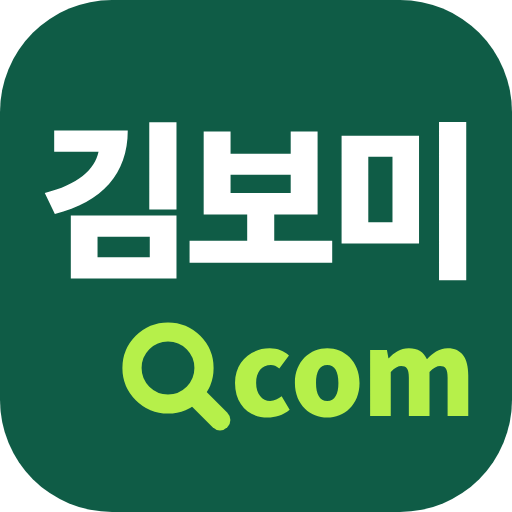
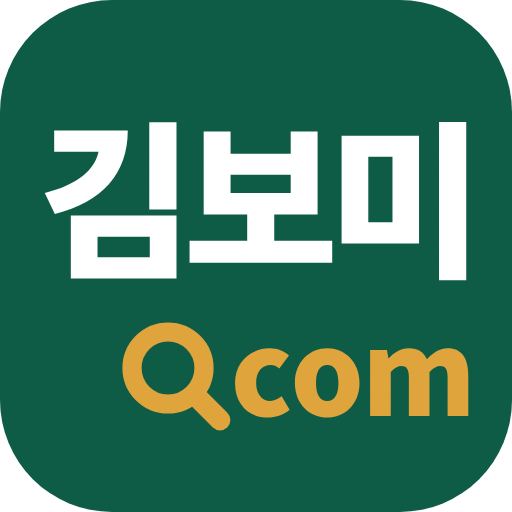
CI 확정: 김보미.com 초록·남색·금색 혼합, 우리동네365 먹색·인주
Claude-Session: https://claude.ai/code/session_01JLZyri34fm9eXoDme9TFVV

Changed region(s): [[0.2188, 0.625, 0.9375, 0.8438]]

diff --git a/budget365.html b/budget365.html
@@ -25,15 +25,15 @@
 <style>
 /* ═══════════ 디자인 토큰 — 03 괘선 장부 (A 신문 1면 × D 쪽빛 전통) ═══════════ */
 :root{
-  --navy:#0B3F31;--navy-2:#0F5C46;--navy-3:#166B52;--royal:#0F5C46;--sky:#E9F2EE;--sky-2:#D3E6DD;--lime:#B6F04A;
-  --gold:#B6F04A;--gold-ink:#3D6B00;--gold-soft:#EEF8D9;--teal:#2F6F5E;--teal-soft:#E2EFEA;--teal-ink:#24594B;
+  --navy:#1C1B18;--navy-2:#2A2925;--navy-3:#3A3934;--royal:#2A2925;--sky:#F1EEE6;--sky-2:#E4DFD2;--lime:#F2A48F;
+  --gold:#C8412B;--gold-ink:#93321F;--gold-soft:#FBE7E1;--teal:#2F6F5E;--teal-soft:#E2EFEA;--teal-ink:#24594B;
   --red:#B8402A;--red-soft:#FBE7E1;--red-ink:#93321F;--violet:#6B5C8A;
-  --bg:#F1F7F3;--bg-2:#E6F0EA;--card:#FFFFFF;--ink:#15202E;--ink-2:#39424F;--ink-3:#6B6455;
-  --line:#DDE3D8;--line-2:#C3CDBF;--rule:#0B3F31;
-  --z-lg:#7FB2D9;--z-gov:#F4B26B;--z-pol:#C9A9F0;--z-lg-ink:#1E4A75;--z-gov-ink:#8A4E0A;--z-pol-ink:#5A3E8A;--z-lg-soft:#E4EEF7;--z-gov-soft:#FBEEDD;--z-pol-soft:#EFE8F9;
-  --c1:#0B3F31;--c2:#2F6F5E;--c3:#C79319;--c4:#6B5C8A;--c5:#B8402A;--c6:#4A6B8A;--c7:#9A9384;--c8:#3F8FA6;
+  --bg:#FBF7EE;--bg-2:#F3EDDF;--card:#FFFFFF;--ink:#15202E;--ink-2:#39424F;--ink-3:#6B6455;
+  --line:#E6DFCF;--line-2:#D2C9B5;--rule:#1C1B18;
+  --z-lg:#7FB2D9;--z-gov:#7FD0BF;--z-pol:#C9A9F0;--z-lg-ink:#1E4A75;--z-gov-ink:#1F6A5A;--z-pol-ink:#5A3E8A;--z-lg-soft:#E4EEF7;--z-gov-soft:#E3F4EF;--z-pol-soft:#EFE8F9;
+  --c1:#1C1B18;--c2:#2F6F5E;--c3:#C79319;--c4:#6B5C8A;--c5:#B8402A;--c6:#4A6B8A;--c7:#9A9384;--c8:#3F8FA6;
   --mono:'IBM Plex Mono','Noto Sans KR','Apple SD Gothic Neo','Malgun Gothic',ui-monospace,monospace;--body:'Noto Sans KR','Apple SD Gothic Neo','Malgun Gothic',sans-serif;--disp:'Noto Serif KR','Nanum Myeongjo',serif;
-  --side:236px;--r:0;--r-s:0;--sh:none;--sh-2:0 2px 0 rgba(11,63,49,.05);
+  --side:236px;--r:0;--r-s:0;--sh:none;--sh-2:0 2px 0 rgba(28,27,24,.05);
   color-scheme:light}
 *{box-sizing:border-box}
 html{scroll-behavior:smooth}
@@ -44,7 +44,7 @@ h1,h2,h3{font-family:var(--disp);letter-spacing:-.03em}
 .wrap{max-width:1180px;margin:0 auto;padding-inline:clamp(16px,2.6vw,34px)}
 
 /* ═══════════ 좌측 쪽빛 사이드바 ═══════════ */
-.top{position:fixed;left:0;top:0;bottom:0;width:var(--side);z-index:30;background:var(--navy);color:#F5F0E4;border-right:3px solid #072A21;overflow-y:auto}
+.top{position:fixed;left:0;top:0;bottom:0;width:var(--side);z-index:30;background:var(--navy);color:#F5F0E4;border-right:3px solid #0E0E0C;overflow-y:auto}
 .top .wrap{display:flex;flex-direction:column;align-items:stretch;gap:16px;height:auto;max-width:none;padding:22px 18px 24px}
 .brand{display:flex;align-items:center;gap:9px;text-decoration:none;color:#F5F0E4;font-family:var(--disp);font-weight:900;font-size:20px;letter-spacing:-.02em;white-space:nowrap}
 .brand:hover{color:#F5F0E4}
@@ -53,7 +53,7 @@ h1,h2,h3{font-family:var(--disp);letter-spacing:-.03em}
 .brand .three{color:var(--lime)}
 .brand small{font-family:var(--mono);font-size:9.5px;color:rgba(245,240,228,.55);letter-spacing:.14em;font-weight:500;padding:2px 5px;border:1px solid rgba(245,240,228,.25)}
 .gohome{display:flex;align-items:center;gap:7px;text-decoration:none;color:rgba(245,240,228,.82);font-size:12.5px;font-weight:500;padding:8px 11px;border:1px solid rgba(245,240,228,.28);margin-bottom:-4px}
-.gohome:hover{background:var(--gold);color:var(--navy);border-color:var(--gold)}
+.gohome:hover{background:var(--gold);color:#fff;border-color:var(--gold)}
 .gohome span{font-family:var(--mono)}
 .search{position:relative;width:100%;margin:0}
 .search input{width:100%;padding:8px 10px 8px 32px;border:1px solid rgba(245,240,228,.28);background:rgba(245,240,228,.07);color:#F5F0E4;font-size:13px;font-family:inherit}
@@ -67,11 +67,11 @@ h1,h2,h3{font-family:var(--disp);letter-spacing:-.03em}
 .nav{display:flex;flex-direction:column;gap:0;margin:0;border-top:1px solid rgba(245,240,228,.16)}
 .nav a{text-decoration:none;color:rgba(245,240,228,.76);font-size:13.5px;font-weight:500;padding:9px 11px;border-bottom:1px solid rgba(245,240,228,.12)}
 .nav a:hover{background:rgba(245,240,228,.08);color:#F5F0E4}
-.nav a.on{background:var(--gold);color:var(--navy);font-weight:700;border-bottom-color:var(--gold)}
+.nav a.on{background:var(--gold);color:#fff;font-weight:700;border-bottom-color:var(--gold)}
 .stamp{font-family:var(--mono);font-size:10px;color:rgba(245,240,228,.62);line-height:1.8;margin-top:auto;padding-top:14px;border-top:1px solid rgba(245,240,228,.16);white-space:normal}
 @media (max-width:900px){
   body{padding-left:0}
-  .top{position:sticky;left:auto;top:0;bottom:auto;width:auto;height:auto;border-right:0;border-bottom:3px solid #072A21;overflow:visible}
+  .top{position:sticky;left:auto;top:0;bottom:auto;width:auto;height:auto;border-right:0;border-bottom:3px solid #0E0E0C;overflow:visible}
   .top .wrap{flex-direction:row;align-items:center;gap:12px;padding:10px 16px;flex-wrap:wrap}
   .nav{flex-direction:row;border-top:0;order:3;width:100%;overflow-x:auto}
   .nav a{border-bottom:0;border-right:1px solid rgba(245,240,228,.14);white-space:nowrap}
@@ -140,7 +140,7 @@ h1,h2,h3{font-family:var(--disp);letter-spacing:-.03em}
 .fabs.show{display:flex}
 .fabs button{border:1px solid var(--navy);background:var(--navy);color:#F5F0E4;font-family:inherit;font-size:14px;font-weight:700;padding:0 16px;min-height:46px;cursor:pointer;box-shadow:0 8px 22px -8px rgba(14,42,71,.55)}
 .fabs button.up{background:var(--card);color:var(--navy)}
-.fabs button:hover{background:var(--gold);color:var(--navy);border-color:var(--gold)}
+.fabs button:hover{background:var(--gold);color:#fff;border-color:var(--gold)}
 @media (max-width:900px){.fabs{left:12px;bottom:calc(12px + env(safe-area-inset-bottom))}}
 /* ═══════════ 본문 — 장부 ═══════════ */
 main{padding-bottom:36px;background:var(--bg)}
@@ -191,7 +191,7 @@ th.num{text-align:right}
 .sido button{background:var(--card);border:0;border-right:1px solid var(--line-2);border-bottom:1px solid var(--line-2);padding:7px 13px;cursor:pointer;color:var(--ink-2);font-size:13px;font-weight:500;display:inline-flex;align-items:center;gap:6px}
 .sido button small{font-family:var(--mono);font-size:11.5px;color:var(--ink-3)}
 .sido button.on{background:var(--navy);color:#F5F0E4;font-weight:700}
-.sido button.on small{color:var(--gold)}
+.sido button.on small{color:var(--lime)}
 .gu{display:grid;grid-template-columns:repeat(auto-fill,minmax(226px,1fr));gap:0;margin:12px 0 28px;border-top:1px solid var(--line-2);border-left:1px solid var(--line-2)}
 .gu a{position:relative;display:block;text-decoration:none;color:var(--ink);background:var(--card);border-right:1px solid var(--line-2);border-bottom:1px solid var(--line-2);padding:12px 15px 11px;transition:background .12s;overflow:hidden}
 .gu a::before{content:"";position:absolute;left:0;top:0;bottom:0;width:3px;background:var(--navy)}
@@ -241,12 +241,12 @@ tr.row{cursor:pointer}tr.row:hover td{background:var(--gold-soft)!important}
 .ov.open{display:flex}
 .md{background:var(--card);border:1px solid var(--navy);max-width:820px;width:100%;box-shadow:0 24px 60px -20px rgba(14,42,71,.5);overflow:hidden}
 .md .hd{background:var(--navy);color:#F5F0E4;padding:18px 24px 16px;position:relative}
-.md .hd .eyebrow{color:var(--gold)}
+.md .hd .eyebrow{color:var(--lime)}
 .md .hd h3{font-family:var(--disp);font-size:23px;font-weight:900;margin:6px 0 4px;line-height:1.25}
 .md .hd .mut{color:rgba(245,240,228,.75)}
 .md .bd{padding:18px 24px 22px}
 .md .x{position:absolute;right:14px;top:12px;border:1px solid rgba(245,240,228,.4);background:transparent;color:#F5F0E4;width:32px;height:32px;font-size:19px;cursor:pointer}
-.md .x:hover{background:var(--gold);color:var(--navy);border-color:var(--gold)}
+.md .x:hover{background:var(--gold);color:#fff;border-color:var(--gold)}
 .yr{display:grid;grid-template-columns:repeat(auto-fit,minmax(158px,1fr));gap:0;margin:4px 0 14px;border-top:1px solid var(--line-2);border-left:1px solid var(--line-2)}
 .yr > div{border-right:1px solid var(--line-2);border-bottom:1px solid var(--line-2);padding:11px 14px;background:#FDFBF5}
 .yr b{font-family:var(--mono);font-size:19px;font-weight:600;display:block;font-variant-numeric:tabular-nums;color:var(--navy)}
@@ -254,7 +254,7 @@ tr.row{cursor:pointer}tr.row:hover td{background:var(--gold-soft)!important}
 
 .foot{margin-top:50px;background:var(--navy);color:rgba(245,240,228,.78);font-size:12.5px;line-height:1.9;font-variant-numeric:tabular-nums}
 .foot .wrap{padding-block:24px 30px}
-.foot b{color:var(--gold)}
+.foot b{color:var(--lime)}
 .loading{padding:70px 0;text-align:center;color:var(--ink-3);font-family:var(--disp);font-size:18px}
 .empty{padding:36px;text-align:center;color:var(--ink-3);background:var(--card);border:1px dashed var(--line-2)}
 @media (max-width:560px){.tree summary,.tree .leaf{grid-template-columns:minmax(0,1fr) auto auto}.tree .mini{display:none}.tree .n.x{display:none}.kpi .n{font-size:21px}.big{font-size:28px}.modes a{grid-template-columns:auto 1fr}.modes .ar{display:none}.hero h1{font-size:34px}.lgband h1{font-size:30px}}
@@ -262,7 +262,7 @@ tr.row{cursor:pointer}tr.row:hover td{background:var(--gold-soft)!important}
 .rkb{display:inline-block;width:52px;height:7px;background:var(--bg-2);border:1px solid var(--line-2);position:relative;vertical-align:middle;margin-left:6px}
 .rkb i{position:absolute;top:-1px;bottom:-1px;width:4px;background:var(--red);transform:translateX(-50%)}
 .nav a b{float:right;font-family:var(--mono);font-size:10.5px;font-weight:500;color:rgba(245,240,228,.62)}
-.nav a.on b{color:var(--navy)}
+.nav a.on b{color:#fff}
 @media (max-width:900px){.nav a b{display:none}}
 
 /* ═══════════ 중앙정부 62개 부처 ═══════════ */
@@ -279,7 +279,7 @@ tr.row{cursor:pointer}tr.row:hover td{background:var(--gold-soft)!important}
 .ng-lg{--zc:var(--z-lg)} .ng-gov{--zc:var(--z-gov)} .ng-pol{--zc:var(--z-pol)}
 .ng:first-child .nav-hd{margin-top:0}
 .ng a.k{font-weight:700;color:#F5F0E4}
-.ng a.k.on{color:var(--navy)}
+.ng a.k.on{color:#fff}
 @media (max-width:900px){.ng{flex-direction:row}.ng .nav-hd{padding:6px 10px;margin:0;justify-content:center}.ng .nav-hd span{display:none}.ng a{border-left:0;border-top:3px solid var(--zc);padding-left:11px}}
 /* 상단 3구역 전환 */
 .zsw{display:flex;gap:0;margin:0 0 6px;border:1.5px solid var(--rule)}
@@ -300,8 +300,8 @@ tr.row{cursor:pointer}tr.row:hover td{background:var(--gold-soft)!important}
 .gov-sw a.on{background:var(--rule);color:#fff}
 .gov-sw a small{display:block;font-weight:500;font-size:11.5px;opacity:.72;margin-top:2px}
 .gov-sw.yr{margin-top:8px;border-color:var(--gold)}
-.gov-sw.yr a.on{background:var(--gold);color:var(--navy)}
-.gov-sw.yr a.on small{color:var(--navy);opacity:.85}
+.gov-sw.yr a.on{background:var(--gold);color:#fff}
+.gov-sw.yr a.on small{color:#fff;opacity:.85}
 td.num.up{color:var(--red-ink)}td.num.dn{color:var(--teal-ink)}
 .mins{display:grid;grid-template-columns:repeat(auto-fill,minmax(232px,1fr));gap:-1px 0;border-top:1px solid var(--line-2)}
 .mins a{display:block;padding:13px 14px;border-bottom:1px solid var(--line);border-right:1px solid var(--line);text-decoration:none;color:inherit;background:var(--card)}
@@ -1415,7 +1415,7 @@ function bindSearch(q,sug){ if(!q||!sug||q._bound) return; q._bound=1; let cur=-
 bindSearch(document.getElementById('q'),document.getElementById('sug'));
 document.addEventListener('click',e=>{ if(!e.target.closest('.search')&&!e.target.closest('.bigq')) document.querySelectorAll('.sug').forEach(s=>s.style.display='none'); });
 
-function footer(){ return `<a href="index.html" style="color:var(--gold);font-weight:600;text-decoration:none">← 김보미.com 홈으로</a> &nbsp;·&nbsp; <a href="about.html" style="color:inherit">김보미는</a> &nbsp;·&nbsp; <a href="https://taxwatch.kr/" target="_blank" rel="noopener" style="color:inherit">재정주권시민행동 ↗</a><br><b>우리동네365</b> — 재정주권시민행동. 자료는 원문 그대로 싣고 값을 만들지 않습니다. 확인되지 않은 값은 '—'로 비웁니다. 갱신 주기: 세부사업 집행(당해) 일 단위 · 계약 일 단위 · 재정공시·청렴도·금고이자율 연 단위. 2026.7.1 행정체계 개편(전남광주통합특별시·인천 4개 구)은 화면 표기에 반영했고, 재정 데이터 키는 2024 공시 체계를 유지합니다. 데이터 층 v${S.index?.v||1} · 빌드 ${S.index?.built_at?.slice(0,10)||''}`; }
+function footer(){ return `<a href="index.html" style="color:var(--lime);font-weight:600;text-decoration:none">← 김보미.com 홈으로</a> &nbsp;·&nbsp; <a href="about.html" style="color:inherit">김보미는</a> &nbsp;·&nbsp; <a href="https://taxwatch.kr/" target="_blank" rel="noopener" style="color:inherit">재정주권시민행동 ↗</a><br><b>우리동네365</b> — 재정주권시민행동. 자료는 원문 그대로 싣고 값을 만들지 않습니다. 확인되지 않은 값은 '—'로 비웁니다. 갱신 주기: 세부사업 집행(당해) 일 단위 · 계약 일 단위 · 재정공시·청렴도·금고이자율 연 단위. 2026.7.1 행정체계 개편(전남광주통합특별시·인천 4개 구)은 화면 표기에 반영했고, 재정 데이터 키는 2024 공시 체계를 유지합니다. 데이터 층 v${S.index?.v||1} · 빌드 ${S.index?.built_at?.slice(0,10)||''}`; }
 
 /* ═══════════ 정책 아카이브 (정부 발표 정책·123대 국정과제) ═══════════
    자료: 정책브리핑(korea.kr)·부처 누리집 원문을 날짜순으로 모은 것.

diff --git a/assets/kb-common.css b/assets/kb-common.css
@@ -2,7 +2,7 @@
 .kbx-strip,.kbx-hdr,.kbx-foot{font-family:"Noto Sans KR",system-ui,-apple-system,"Malgun Gothic",sans-serif;line-height:1.6;box-sizing:border-box;letter-spacing:0}
 .kbx-strip *,.kbx-hdr *,.kbx-foot *{box-sizing:border-box}
 .kbx-strip{background:#0E2143;color:#E8EEF8;font-size:12.5px;text-align:center;padding:7px 20px}
-.kbx-strip b{color:#B6F04A}
+.kbx-strip b{color:#E0A43C}
 .kbx-strip a{color:#E8EEF8;text-decoration:none}
 .kbx-hdr{background:#F5F2EA;border-bottom:1px solid #E4DFD3;position:sticky;top:0;z-index:90;margin:0;padding:0;width:100%}
 .kbx-hdr .kbx-w{max-width:1120px;margin:0 auto;padding:0 20px;display:flex;align-items:center;gap:14px;height:64px}
@@ -15,10 +15,10 @@
 .kbx-hdr .kbx-365{display:inline-flex;align-items:center;gap:9px;background:#0F5C46;color:#fff;padding:7px 15px 7px 11px;border-radius:10px;text-decoration:none;white-space:nowrap;box-shadow:0 4px 14px rgba(15,90,74,.22)}
 .kbx-hdr .kbx-365:hover{background:#0B3F31;color:#fff}
 .kbx-hdr .kbx-365 img{width:26px;height:26px;display:block;border-radius:6px}
-.kbx-hdr .kbx-365 svg{width:20px;height:20px;fill:none;stroke:#B6F04A;stroke-width:2;stroke-linecap:round}
+.kbx-hdr .kbx-365 svg{width:20px;height:20px;fill:none;stroke:#E0A43C;stroke-width:2;stroke-linecap:round}
 .kbx-hdr .kbx-365 span{display:flex;flex-direction:column;line-height:1.2}
 .kbx-hdr .kbx-365 b{font-size:14px;font-weight:700;letter-spacing:-.02em}
-.kbx-hdr .kbx-365 em{font-style:normal;font-size:10.5px;color:#B6F04A;font-weight:500}
+.kbx-hdr .kbx-365 em{font-style:normal;font-size:10.5px;color:#F0CB7A;font-weight:500}
 .kbx-hdr .kbx-join{background:transparent;color:#0F5C46;border:1.5px solid #0F5C46;font-size:13.5px;font-weight:700;padding:7px 14px;border-radius:8px;white-space:nowrap;text-decoration:none}
 .kbx-hdr .kbx-join:hover{background:#0F5C46;color:#fff}
 @media(max-width:760px){

diff --git a/assets/kb-ledger.css b/assets/kb-ledger.css
@@ -1,8 +1,8 @@
 /* 김보미.com 공통 디자인 — 딥그린 + 네이비 + 크림 */
 :root{
   --cream:#F5F2EA; --card:#FFFFFF; --ink:#17181A; --mut:#6A6B70;
-  --green:#0F5C46; --green2:#0B3F31; --navy:#0B3F31; --navy2:#072A21; --lime:#B6F04A;
-  --gold:#B6F04A; --line:#E4DFD3; --line2:#D6CFBE;
+  --green:#0F5C46; --green2:#0B3F31; --navy:#0E2A47; --navy2:#0A1F36; --lime:#F0CB7A;
+  --gold:#E0A43C; --line:#E4DFD3; --line2:#D6CFBE;
   --serif:"Noto Serif KR",serif; --sans:"Noto Sans KR",system-ui,sans-serif; --mono:"IBM Plex Mono",ui-monospace,monospace;
 }
 *{box-sizing:border-box}
